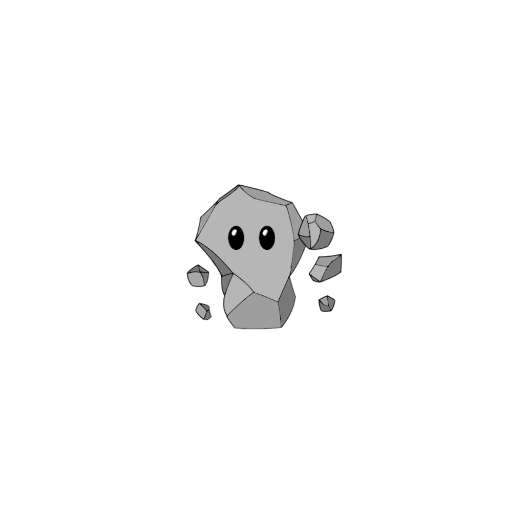
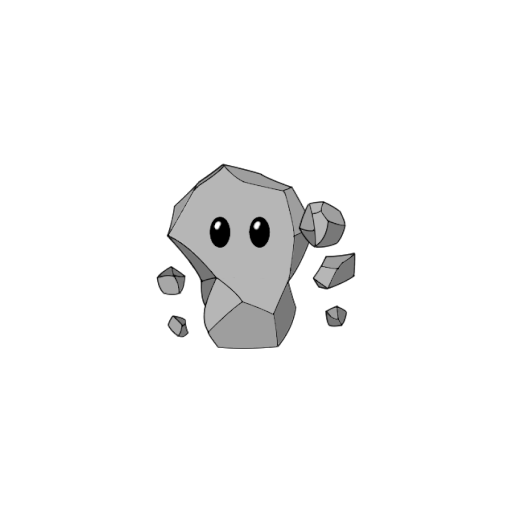
loading path to '', and updating textures

Changed region(s): [[0.2812, 0.3125, 0.7188, 0.6875]]

diff --git a/src/de/acagamics/client/rendering/renderer/MapRendering.java b/src/de/acagamics/client/rendering/renderer/MapRendering.java
@@ -80,9 +80,9 @@ public final class MapRendering implements IDrawable {
 				} else {
 					untiTexture = unitTexture3;
 				}
-				context.drawImage(untiTexture, unit.getPosition().getX() - GameConstants.UNIT_RADIUS * 2,
-						unit.getPosition().getY() - GameConstants.UNIT_RADIUS * 2, 4 * GameConstants.UNIT_RADIUS,
-						4 * GameConstants.UNIT_RADIUS);
+				context.drawImage(untiTexture, unit.getPosition().getX() - GameConstants.UNIT_RADIUS * 3,
+						unit.getPosition().getY() - GameConstants.UNIT_RADIUS * 3, 6 * GameConstants.UNIT_RADIUS,
+						6 * GameConstants.UNIT_RADIUS);
 			}
 		}
 	}

diff --git a/src/de/acagamics/client/gui/states/BotSelectionState.java b/src/de/acagamics/client/gui/states/BotSelectionState.java
@@ -30,7 +30,7 @@ public class BotSelectionState extends MenuState {
 		speedMultiplier = 1;
 
 		playerLoader = new BotClassLoader();
-		playerLoader.loadControllerFromDirectory(FileSystems.getDefault().getPath("bin/").toAbsolutePath().toString());
+		playerLoader.loadControllerFromDirectory(FileSystems.getDefault().getPath("").toAbsolutePath().toString());
 		bots = playerLoader.getLoadedExternControllerClassNames();
 
 		drawables.add(new TextBox(new Point2D(100, 100), "Bot Selection").setVerticalAlignment(Alignment.LEFT)

diff --git a/src/de/acagamics/constants/GameConstants.java b/src/de/acagamics/constants/GameConstants.java
@@ -34,7 +34,7 @@ public final class GameConstants {
 	 * <p>
 	 * Value = {@value #UNIT_RADIUS}
 	 */
-	public static final float UNIT_RADIUS = 0.06f;
+	public static final float UNIT_RADIUS = 0.1f;
 
 	/**
 	 * Maximal per step moving speed of a unit.
@@ -51,7 +51,6 @@ public final class GameConstants {
 	public static final float UNIT_BODY_RADIUS = 0.01f;
 	
 	public static final float COST_EXPONENT = 0.725f;
-
 	public static final int COST_MULTIPIER = 1000;
 
 	/**
